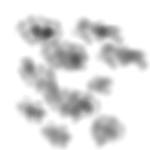
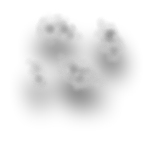
Improved clouds and rain weather effects

diff --git a/IceBlink2/CommonCode.cs b/IceBlink2/CommonCode.cs
@@ -2303,7 +2303,17 @@ namespace IceBlink2
         {
             setToBorderPixDistancesMainMap();
 
-            float scaledSpriteDimension = spr.frameHeight * spr.scale;
+            float scaler = 0;
+            if (spr.scaleX >= spr.scaleY)
+            {
+                scaler = spr.scaleX;
+            }
+            else
+            {
+                scaler = spr.scaleY;
+            }
+
+            float scaledSpriteDimension = spr.frameHeight * scaler;
             //if (!spr.movementMethod.Contains("fog"))
             //{
                 float capSize = 0;
@@ -6016,7 +6026,7 @@ namespace IceBlink2
                     storedIncrement += increment;
                     if (gv.sf.RandInt(100) < rainChance)
                     {
-                        Sprite spr = new Sprite(gv, "rainDrop", storedIncrement - (gv.squareSize/2), -(float)(gv.sf.RandInt(10)), (float)(gv.sf.RandInt(5) + 35) / 650f, (float)(gv.sf.RandInt(80) + 170) / 650f, 0, 0, 0.525f, gv.sf.RandInt(10000) + 6000, false, 100, gv.mod.fullScreenEffectOpacityWeather, 0, "rain", false, 0);
+                        Sprite spr = new Sprite(gv, "rainDrop", storedIncrement - (gv.squareSize/2), -(float)(gv.sf.RandInt(10)), (float)(gv.sf.RandInt(5) + 35) / 650f, (float)(gv.sf.RandInt(80) + 170) / 650f, 0, 0, 0.18f* 0.75f, 0.335f * 0.75f, gv.sf.RandInt(10000) + 6000, false, 100, gv.mod.fullScreenEffectOpacityWeather, 0, "rain", false, 0);
                         gv.screenMainMap.spriteList.Add(spr);
                     }
                 }
@@ -6049,7 +6059,7 @@ namespace IceBlink2
                     if (gv.sf.RandInt(100) < snowChance)
                     {
                         int scaleMulti = gv.sf.RandInt(50) + 75;
-                        Sprite spr = new Sprite(gv, "snowFlake", storedIncrement - (gv.squareSize / 2), -(float)(gv.sf.RandInt(10)), 0, (float)(gv.sf.RandInt(80) + 170) / 6000f, 0, 0, 0.425f * scaleMulti/100f, gv.sf.RandInt(10000) + 15000, false, 100, gv.mod.fullScreenEffectOpacityWeather, 0, "snow", false, 0);
+                        Sprite spr = new Sprite(gv, "snowFlake", storedIncrement - (gv.squareSize / 2), -(float)(gv.sf.RandInt(10)), 0, (float)(gv.sf.RandInt(80) + 170) / 6000f, 0, 0, 0.425f * scaleMulti/100f, 0.425f * scaleMulti/100f, gv.sf.RandInt(10000) + 15000, false, 100, gv.mod.fullScreenEffectOpacityWeather, 0, "snow", false, 0);
                         gv.screenMainMap.spriteList.Add(spr);
                     }
                 }
@@ -6086,7 +6096,7 @@ namespace IceBlink2
                             int scaleMulti = gv.sf.RandInt(50) + 75;
                             float thisParticleSpeed = (75f + gv.sf.RandInt(50)) / 100f;
                             //(float)(gv.sf.RandInt(80) + 170) / 600f
-                            Sprite spr = new Sprite(gv, "sandGrain", -(float)(gv.sf.RandInt(10)), storedIncrement - (gv.squareSize / 2), thisParticleSpeed * gv.mod.sandStormDirectionX, thisParticleSpeed * gv.mod.sandStormDirectionY, 0, 0, 0.235f * scaleMulti / 100f, 4000, false, 100, gv.mod.fullScreenEffectOpacityWeather, 0, "sandstorm", false, 0);
+                            Sprite spr = new Sprite(gv, "sandGrain", -(float)(gv.sf.RandInt(10)), storedIncrement - (gv.squareSize / 2), thisParticleSpeed * gv.mod.sandStormDirectionX, thisParticleSpeed * gv.mod.sandStormDirectionY, 0, 0, 0.235f * scaleMulti / 100f, 0.235f * scaleMulti/100f, 4000, false, 100, gv.mod.fullScreenEffectOpacityWeather, 0, "sandstorm", false, 0);
                             gv.screenMainMap.spriteList.Add(spr);
                         }
                     }
@@ -6102,7 +6112,7 @@ namespace IceBlink2
                             int scaleMulti = gv.sf.RandInt(50) + 75;
                             float thisParticleSpeed = (75f + gv.sf.RandInt(50)) / 100f;
                             //(float)(gv.sf.RandInt(80) + 170) / 600f
-                            Sprite spr = new Sprite(gv, "sandGrain", storedIncrement - (gv.squareSize / 2), gv.screenHeight + (float)(gv.sf.RandInt(10)), thisParticleSpeed * gv.mod.sandStormDirectionX, thisParticleSpeed * gv.mod.sandStormDirectionY, 0, 0, 0.235f * scaleMulti / 100f, 4000, false, 100, gv.mod.fullScreenEffectOpacityWeather, 0, "sandstorm", false, 0);
+                            Sprite spr = new Sprite(gv, "sandGrain", storedIncrement - (gv.squareSize / 2), gv.screenHeight + (float)(gv.sf.RandInt(10)), thisParticleSpeed * gv.mod.sandStormDirectionX, thisParticleSpeed * gv.mod.sandStormDirectionY, 0, 0, 0.235f * scaleMulti / 100f, 0.235f * scaleMulti/100f, 4000, false, 100, gv.mod.fullScreenEffectOpacityWeather, 0, "sandstorm", false, 0);
                             gv.screenMainMap.spriteList.Add(spr);
                         }
                     }
@@ -6119,7 +6129,7 @@ namespace IceBlink2
                             int scaleMulti = gv.sf.RandInt(50) + 75;
                             float thisParticleSpeed = (75f + gv.sf.RandInt(50)) / 100f;
                             //(float)(gv.sf.RandInt(80) + 170) / 600f
-                            Sprite spr = new Sprite(gv, "sandGrain", gv.screenWidth + (float)(gv.sf.RandInt(10)), storedIncrement - (gv.squareSize / 2), thisParticleSpeed * gv.mod.sandStormDirectionX, thisParticleSpeed * gv.mod.sandStormDirectionY, 0, 0, 0.235f * scaleMulti / 100f, 4000, false, 100, gv.mod.fullScreenEffectOpacityWeather, 0, "sandstorm", false, 0);
+                            Sprite spr = new Sprite(gv, "sandGrain", gv.screenWidth + (float)(gv.sf.RandInt(10)), storedIncrement - (gv.squareSize / 2), thisParticleSpeed * gv.mod.sandStormDirectionX, thisParticleSpeed * gv.mod.sandStormDirectionY, 0, 0, 0.235f * scaleMulti / 100f, 0.235f * scaleMulti/100f, 4000, false, 100, gv.mod.fullScreenEffectOpacityWeather, 0, "sandstorm", false, 0);
                             gv.screenMainMap.spriteList.Add(spr);
                         }
                     }
@@ -6135,7 +6145,7 @@ namespace IceBlink2
                             int scaleMulti = gv.sf.RandInt(50) + 75;
                             float thisParticleSpeed = (75f + gv.sf.RandInt(50)) / 100f;
                             //(float)(gv.sf.RandInt(80) + 170) / 600f
-                            Sprite spr = new Sprite(gv, "sandGrain", storedIncrement - (gv.squareSize / 2), gv.screenHeight + (float)(gv.sf.RandInt(10)), thisParticleSpeed * gv.mod.sandStormDirectionX, thisParticleSpeed * gv.mod.sandStormDirectionY, 0, 0, 0.235f * scaleMulti / 100f, 4000, false, 100, gv.mod.fullScreenEffectOpacityWeather, 0, "sandstorm", false, 0);
+                            Sprite spr = new Sprite(gv, "sandGrain", storedIncrement - (gv.squareSize / 2), gv.screenHeight + (float)(gv.sf.RandInt(10)), thisParticleSpeed * gv.mod.sandStormDirectionX, thisParticleSpeed * gv.mod.sandStormDirectionY, 0, 0, 0.235f * scaleMulti / 100f, 0.235f * scaleMulti/100f, 4000, false, 100, gv.mod.fullScreenEffectOpacityWeather, 0, "sandstorm", false, 0);
                             gv.screenMainMap.spriteList.Add(spr);
                         }
                     }
@@ -6153,7 +6163,7 @@ namespace IceBlink2
                             int scaleMulti = gv.sf.RandInt(50) + 75;
                             float thisParticleSpeed = (75f + gv.sf.RandInt(50)) / 100f;
                             //(float)(gv.sf.RandInt(80) + 170) / 600f
-                            Sprite spr = new Sprite(gv, "sandGrain", gv.screenWidth + (float)(gv.sf.RandInt(10)), storedIncrement - (gv.squareSize / 2), thisParticleSpeed * gv.mod.sandStormDirectionX, thisParticleSpeed * gv.mod.sandStormDirectionY, 0, 0, 0.235f * scaleMulti / 100f, 4000, false, 100, gv.mod.fullScreenEffectOpacityWeather, 0, "sandstorm", false, 0);
+                            Sprite spr = new Sprite(gv, "sandGrain", gv.screenWidth + (float)(gv.sf.RandInt(10)), storedIncrement - (gv.squareSize / 2), thisParticleSpeed * gv.mod.sandStormDirectionX, thisParticleSpeed * gv.mod.sandStormDirectionY, 0, 0, 0.235f * scaleMulti / 100f, 0.235f * scaleMulti/100f, 4000, false, 100, gv.mod.fullScreenEffectOpacityWeather, 0, "sandstorm", false, 0);
                             gv.screenMainMap.spriteList.Add(spr);
                         }
                     }
@@ -6169,7 +6179,7 @@ namespace IceBlink2
                             int scaleMulti = gv.sf.RandInt(50) + 75;
                             float thisParticleSpeed = (75f + gv.sf.RandInt(50)) / 100f;
                             //(float)(gv.sf.RandInt(80) + 170) / 600f
-                            Sprite spr = new Sprite(gv, "sandGrain", storedIncrement - (gv.squareSize / 2), -(float)(gv.sf.RandInt(10)), thisParticleSpeed * gv.mod.sandStormDirectionX, thisParticleSpeed * gv.mod.sandStormDirectionY, 0, 0, 0.235f * scaleMulti / 100f, 4000, false, 100, gv.mod.fullScreenEffectOpacityWeather, 0, "sandstorm", false, 0);
+                            Sprite spr = new Sprite(gv, "sandGrain", storedIncrement - (gv.squareSize / 2), -(float)(gv.sf.RandInt(10)), thisParticleSpeed * gv.mod.sandStormDirectionX, thisParticleSpeed * gv.mod.sandStormDirectionY, 0, 0, 0.235f * scaleMulti / 100f, 0.235f * scaleMulti/100f, 4000, false, 100, gv.mod.fullScreenEffectOpacityWeather, 0, "sandstorm", false, 0);
                             gv.screenMainMap.spriteList.Add(spr);
                         }
                     }
@@ -6186,7 +6196,7 @@ namespace IceBlink2
                             int scaleMulti = gv.sf.RandInt(50) + 75;
                             float thisParticleSpeed = (75f + gv.sf.RandInt(50)) / 100f;
                             //(float)(gv.sf.RandInt(80) + 170) / 600f
-                            Sprite spr = new Sprite(gv, "sandGrain", -(float)(gv.sf.RandInt(10)), storedIncrement - (gv.squareSize / 2), thisParticleSpeed * gv.mod.sandStormDirectionX, thisParticleSpeed * gv.mod.sandStormDirectionY, 0, 0, 0.235f * scaleMulti / 100f, 4000, false, 100, gv.mod.fullScreenEffectOpacityWeather, 0, "sandstorm", false, 0);
+                            Sprite spr = new Sprite(gv, "sandGrain", -(float)(gv.sf.RandInt(10)), storedIncrement - (gv.squareSize / 2), thisParticleSpeed * gv.mod.sandStormDirectionX, thisParticleSpeed * gv.mod.sandStormDirectionY, 0, 0, 0.235f * scaleMulti / 100f, 0.235f * scaleMulti/100f, 4000, false, 100, gv.mod.fullScreenEffectOpacityWeather, 0, "sandstorm", false, 0);
                             gv.screenMainMap.spriteList.Add(spr);
                         }
                     }
@@ -6202,7 +6212,7 @@ namespace IceBlink2
                             int scaleMulti = gv.sf.RandInt(50) + 75;
                             float thisParticleSpeed = (75f + gv.sf.RandInt(50)) / 100f;
                             //(float)(gv.sf.RandInt(80) + 170) / 600f
-                            Sprite spr = new Sprite(gv, "sandGrain", storedIncrement - (gv.squareSize / 2), -(float)(gv.sf.RandInt(10)), thisParticleSpeed * gv.mod.sandStormDirectionX, thisParticleSpeed * gv.mod.sandStormDirectionY, 0, 0, 0.235f * scaleMulti / 100f, 4000, false, 100, gv.mod.fullScreenEffectOpacityWeather, 0, "sandstorm", false, 0);
+                            Sprite spr = new Sprite(gv, "sandGrain", storedIncrement - (gv.squareSize / 2), -(float)(gv.sf.RandInt(10)), thisParticleSpeed * gv.mod.sandStormDirectionX, thisParticleSpeed * gv.mod.sandStormDirectionY, 0, 0, 0.235f * scaleMulti / 100f, 0.235f * scaleMulti/100f, 4000, false, 100, gv.mod.fullScreenEffectOpacityWeather, 0, "sandstorm", false, 0);
                             gv.screenMainMap.spriteList.Add(spr);
                         }
                     }
@@ -6259,7 +6269,7 @@ namespace IceBlink2
                 veloY = -1f / 50f;
             }
 
-            Sprite spr = new Sprite(gv, cloudType, gv.screenWidth/2 - gv.screenHeight/2 + positionModifierX, gv.screenHeight/2 - gv.screenHeight/2 + positionModifierY, veloX * speedMultiplier, veloY * speedMultiplier, 0, 0, 10f, gv.sf.RandInt(80000) + 48000, false, 100,gv.mod.fullScreenEffectOpacityWeather,0,"clouds",true,0);
+            Sprite spr = new Sprite(gv, cloudType, gv.screenWidth/2 - gv.screenHeight/2 + positionModifierX, gv.screenHeight/2 - gv.screenHeight/2 + positionModifierY, veloX * speedMultiplier, veloY * speedMultiplier, 0, 0, gv.sf.RandInt(60)/10f + 7.5f, gv.sf.RandInt(60)/10f + 7.5f, gv.sf.RandInt(80000) + 48000, false, 100,gv.mod.fullScreenEffectOpacityWeather,0,"clouds",true,0);
             gv.screenMainMap.spriteList.Add(spr);   
         }
 
@@ -6280,13 +6290,13 @@ namespace IceBlink2
                 veloY = veloY * -1;
             }
 
-            Sprite spr = new Sprite(gv, fogType, gv.screenWidth / 2 - gv.screenHeight / 2 + positionModifierX, gv.screenHeight / 2 - gv.screenHeight / 2 + positionModifierY, veloX * speedMultiplier, veloY * speedMultiplier, 0, 0, 10f, gv.sf.RandInt(80000) + 48000, false, 100, gv.mod.fullScreenEffectOpacityWeather, 0, "fog", false, 0);
+            Sprite spr = new Sprite(gv, fogType, gv.screenWidth / 2 - gv.screenHeight / 2 + positionModifierX, gv.screenHeight / 2 - gv.screenHeight / 2 + positionModifierY, veloX * speedMultiplier, veloY * speedMultiplier, 0, 0, 10f,10f, gv.sf.RandInt(80000) + 48000, false, 100, gv.mod.fullScreenEffectOpacityWeather, 0, "fog", false, 0);
             gv.screenMainMap.spriteList.Add(spr);
         }
 
         public void createLightning(string lightningType, float posX, float posY, float scaleMod)
         {
-            Sprite spr = new Sprite(gv, lightningType, posX, posY, 0, 0, 0, 0, 5.0f * scaleMod, 4000, false, 45, 1.0f, 0, "lightning", false, 8);
+            Sprite spr = new Sprite(gv, lightningType, posX, posY, 0, 0, 0, 0, 5.0f * scaleMod, 5.0f * scaleMod, 4000, false, 45, 1.0f, 0, "lightning", false, 8);
             gv.screenMainMap.spriteList.Add(spr);
 
             if ((gv.mod.useWeatherSound) && (gv.mod.playMusic))

diff --git a/IceBlink2/Sprite.cs b/IceBlink2/Sprite.cs
@@ -14,7 +14,8 @@ namespace IceBlink2
         public Vector2 velocity = new Vector2(0, 0);  // The speed of the sprite at the current instance
         public float angle = 0;                       // The current angle of rotation of the sprite
         public float angularVelocity = 0;             // The speed that the angle is changing
-        public float scale = 1.0f;                    // The scale of the sprite
+        public float scaleX = 1.0f;                    // The X-scale of the sprite
+        public float scaleY = 1.0f;                    // The Y-scale of the sprite
         public int timeToLiveInMilliseconds = 1000;   // The 'time to live' of the sprite in milliseconds after the startTimeInMilliseconds
         public int millisecondsPerFrame = 100;        // The amount of time (ms) before switching to next frame  
         public bool permanent = false;
@@ -44,14 +45,15 @@ namespace IceBlink2
         public int totalElapsedTime = 0;
 
         //overloaded constructor: complexSprite 
-        public Sprite(GameView gv, string bitmap, float positionX, float positionY, float velocityX, float velocityY, float angle, float angularVelocity, float scale, int timeToLiveInMilliseconds, bool permanent, int msPerFrame, float opacity, float mass, string movementMethod, bool movesIndependentlyFromPlayerPosition, int numberOFFramesForAnimationsMadeFromSeveralBitmaps)
+        public Sprite(GameView gv, string bitmap, float positionX, float positionY, float velocityX, float velocityY, float angle, float angularVelocity, float scaleX, float scaleY, int timeToLiveInMilliseconds, bool permanent, int msPerFrame, float opacity, float mass, string movementMethod, bool movesIndependentlyFromPlayerPosition, int numberOFFramesForAnimationsMadeFromSeveralBitmaps)
         {
             this.bitmap = bitmap;
             this.position = new Vector2(positionX, positionY);
             this.velocity = new Vector2(velocityX, velocityY);
             this.angle = angle;
             this.angularVelocity = angularVelocity;
-            this.scale = scale;
+            this.scaleX = scaleX;
+            this.scaleY = scaleY;
             this.timeToLiveInMilliseconds = timeToLiveInMilliseconds;
             this.millisecondsPerFrame = msPerFrame;
             this.permanent = permanent;
@@ -79,7 +81,8 @@ namespace IceBlink2
             this.velocity = new Vector2(velocityX, velocityY);
             this.angle = angle;
             this.angularVelocity = angularVelocity;
-            this.scale = scale;
+            this.scaleX = scale;
+            this.scaleY = scale;
             this.timeToLiveInMilliseconds = timeToLiveInMilliseconds;
             this.millisecondsPerFrame = msPerFrame;
             this.permanent = permanent;
@@ -101,7 +104,7 @@ namespace IceBlink2
             }
             else if (movementMethod == "clouds")
             {
-                position += velocity * elapsed;
+                position += velocity * elapsed * 0.9f;
                 gv.cc.transformSpritePixelPositionOnContactWithVisibleMainMapBorders(this, 1, true, false, 0);
                 opacity = gv.mod.fullScreenEffectOpacityWeather;
 
@@ -115,12 +118,12 @@ namespace IceBlink2
             }
             else if (movementMethod == "rain")
             {
-                position += velocity * elapsed;
+                position += velocity * elapsed * 1.275f;
                 opacity = gv.mod.fullScreenEffectOpacityWeather;
             }
             else if (movementMethod == "snow")
             {
-                position += velocity * elapsed;
+                position += velocity * elapsed * 1.1f;
                 float shiftAdder = gv.sf.RandInt(300);
                 float limitAdder = gv.sf.RandInt(300);
 
@@ -148,7 +151,7 @@ namespace IceBlink2
             }
             else if (movementMethod == "sandstorm")
             {
-                position += velocity * elapsed;
+                position += velocity * elapsed * 1.4f;
                 opacity = gv.mod.fullScreenEffectOpacityWeather;
             }
 
@@ -184,7 +187,7 @@ namespace IceBlink2
                 src = new IbRect(0, 0, 150, 150);
             }
 
-            IbRect dst = new IbRect((int)this.position.X, (int)this.position.Y, (int)(gv.squareSize * this.scale), (int)(gv.squareSize*this.scale));
+            IbRect dst = new IbRect((int)this.position.X, (int)this.position.Y, (int)(gv.squareSize * this.scaleX), (int)(gv.squareSize*this.scaleY));
 
             if (numberOFFramesForAnimationsMadeFromSeveralBitmaps == 0)
             {
